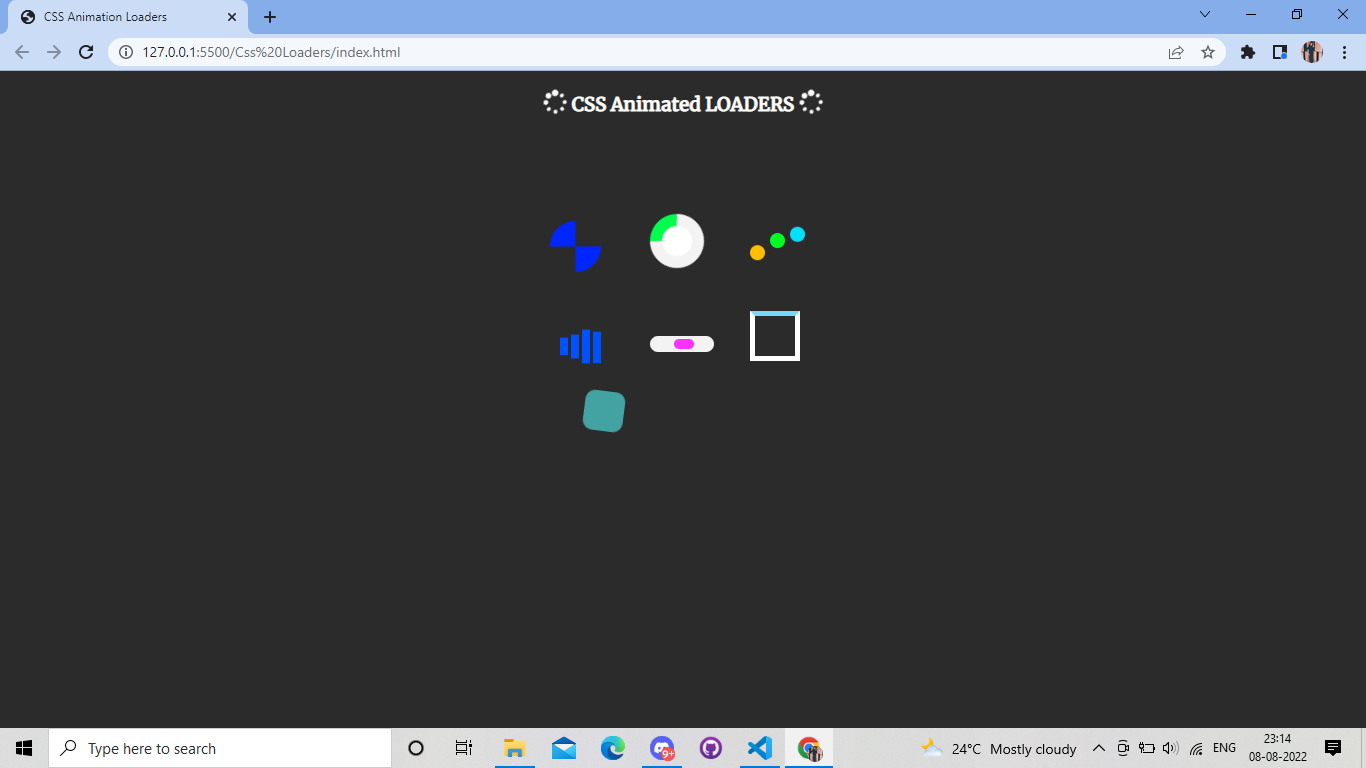
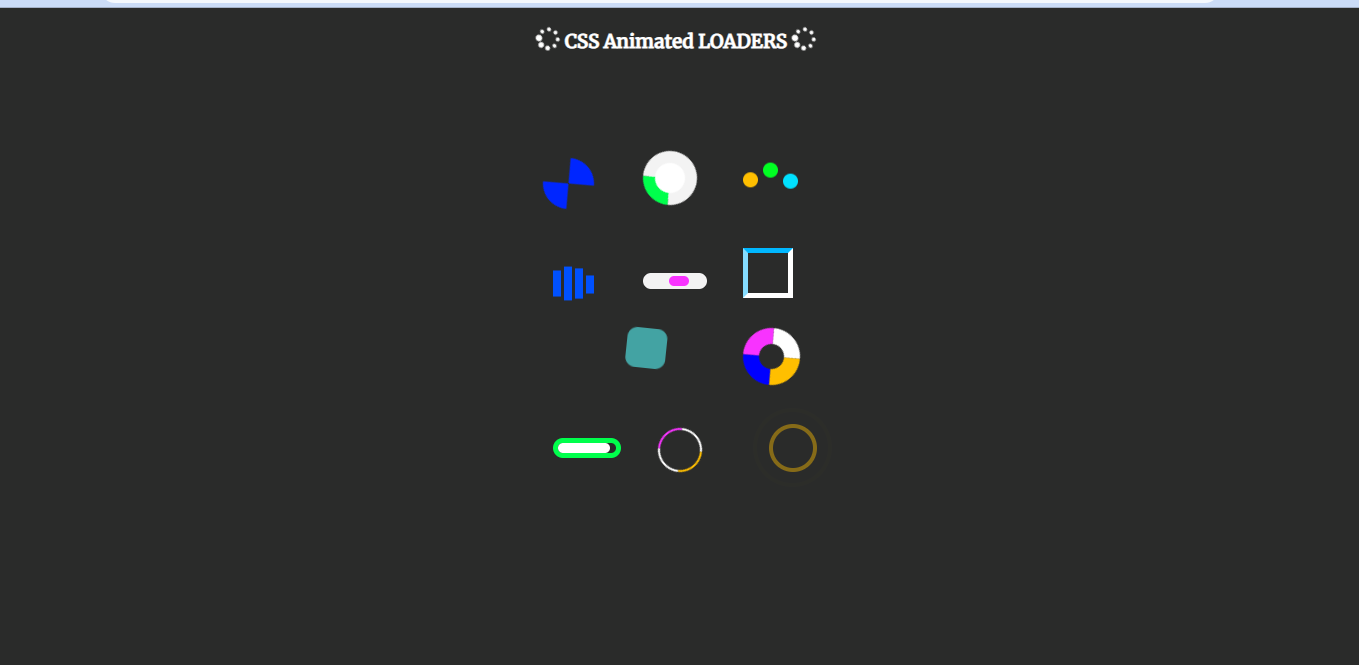
Added more CSS loaders.

diff --git a/Css Loaders/Style.css b/Css Loaders/Style.css
@@ -223,3 +223,130 @@ border-right:5px solid #ffffff;
 @keyframes jump{
 50%{transform: translateY(-20px);}
 }
+.c8{
+  position: absolute;
+  left:750px;
+  top:320px;
+  }
+.loader {
+  width: 25px;
+  height: 25px;
+  animation: circle 2s linear infinite;
+  border-radius: 50%;
+  border-top: 16px solid blue;
+  border-right: 16px solid #f833ff;
+  border-bottom: 16px solid #fff;
+  border-left: 16px solid #ffbf00;
+}
+@keyframes circle {
+  0% { transform: rotate(0deg); }
+  100% { transform: rotate(360deg); }
+}
+.c9{
+position: absolute;
+top: 440px;
+left: 565px;
+transform: translate(-50%,-50%);
+}
+.progress{
+position: relative;
+height: 10px;
+width: 580%;
+border: 5px solid #00ff4c;
+border-radius: 15px;
+}
+.progress .color{
+position: absolute;
+background-color: #ffffff;
+width: 0px;
+height: 10px;
+border-radius: 15px;
+animation: progres 4s infinite linear;    
+}
+@keyframes progres{
+0%{
+  width: 0%;
+}
+25%{
+    width: 50%;
+}
+50%{
+    width: 75%;
+}
+75%{
+    width: 85%;
+}
+100%{
+    width: 100%;
+}
+}
+.c-10{
+  position: absolute;
+  left:665px;
+  top:420px;
+  }
+.load {
+  width: 40px;
+  height: 40px;
+  animation: circle 2s linear infinite;
+  border-radius: 50%;
+  border-top: 2px solid #fff;
+  border-right: 2px solid #f833ff;
+  border-bottom: 2px solid #fff;
+  border-left: 2px solid #ffbf00;
+}
+@keyframes circle {
+  0% { transform: rotate(0deg); }
+  100% { transform: rotate(360deg); }
+}
+.c-11{
+  position: absolute;
+  left:760px;
+  top:400px;
+  }
+.ripple {
+  display: inline-block;
+  position: relative;
+  width: 20px;
+  height: 20px;
+}
+.ripple div {
+  position: absolute;
+  border: 4px solid #ffbf00;
+  opacity: 1;
+  border-radius: 50%;
+  animation: ripple 1s cubic-bezier(0, 0.2, 0.8, 1) infinite;
+}
+.ripple div:nth-child(2) {
+  animation-delay: -0.5s;
+}
+@keyframes ripple {
+  0% {
+    top: 36px;
+    left: 36px;
+    width: 0;
+    height: 0;
+    opacity: 0;
+  }
+  4.9% {
+    top: 36px;
+    left: 36px;
+    width: 0;
+    height: 0;
+    opacity: 0;
+  }
+  5% {
+    top: 36px;
+    left: 36px;
+    width: 0;
+    height: 0;
+    opacity: 1;
+  }
+  100% {
+    top: 0px;
+    left: 0px;
+    width: 72px;
+    height: 72px;
+    opacity: 0;
+  }
+}

diff --git a/Css Loaders/index.html b/Css Loaders/index.html
@@ -1,7 +1,7 @@
 <!DOCTYPE html>
 <html>
 <head>
-    <title>CSs Animation Loaders</title>
+    <title>CSS Animation Loaders</title>
     <link rel="stylesheet" href="https://cdnjs.cloudflare.com/ajax/libs/font-awesome/4.7.0/css/font-awesome.min.css">
     <link href="https://fonts.googleapis.com/css?family=Merriweather:400,400i" rel="stylesheet">
     <link rel="stylesheet" href="Style.css" type="text/css">
@@ -27,6 +27,21 @@
         <div class="slide"></div>
     </div>
     <div class="c6"></div>
-    <div class="c7"></div>
+    <div class="c7">
+    </div>
+    <div class="c8">
+        <div class="loader"></div>
+    </div>
+    <div class="c9">
+        <div class="progress">
+            <div class="color"></div>
+          </div>
+    </div>
+    <div class="c-10">
+        <div class="load"></div>
+    </div>
+   <div class="c-11">
+    <div class="ripple"><div></div><div></div></div>
+</div>
 </body>
 </html>
